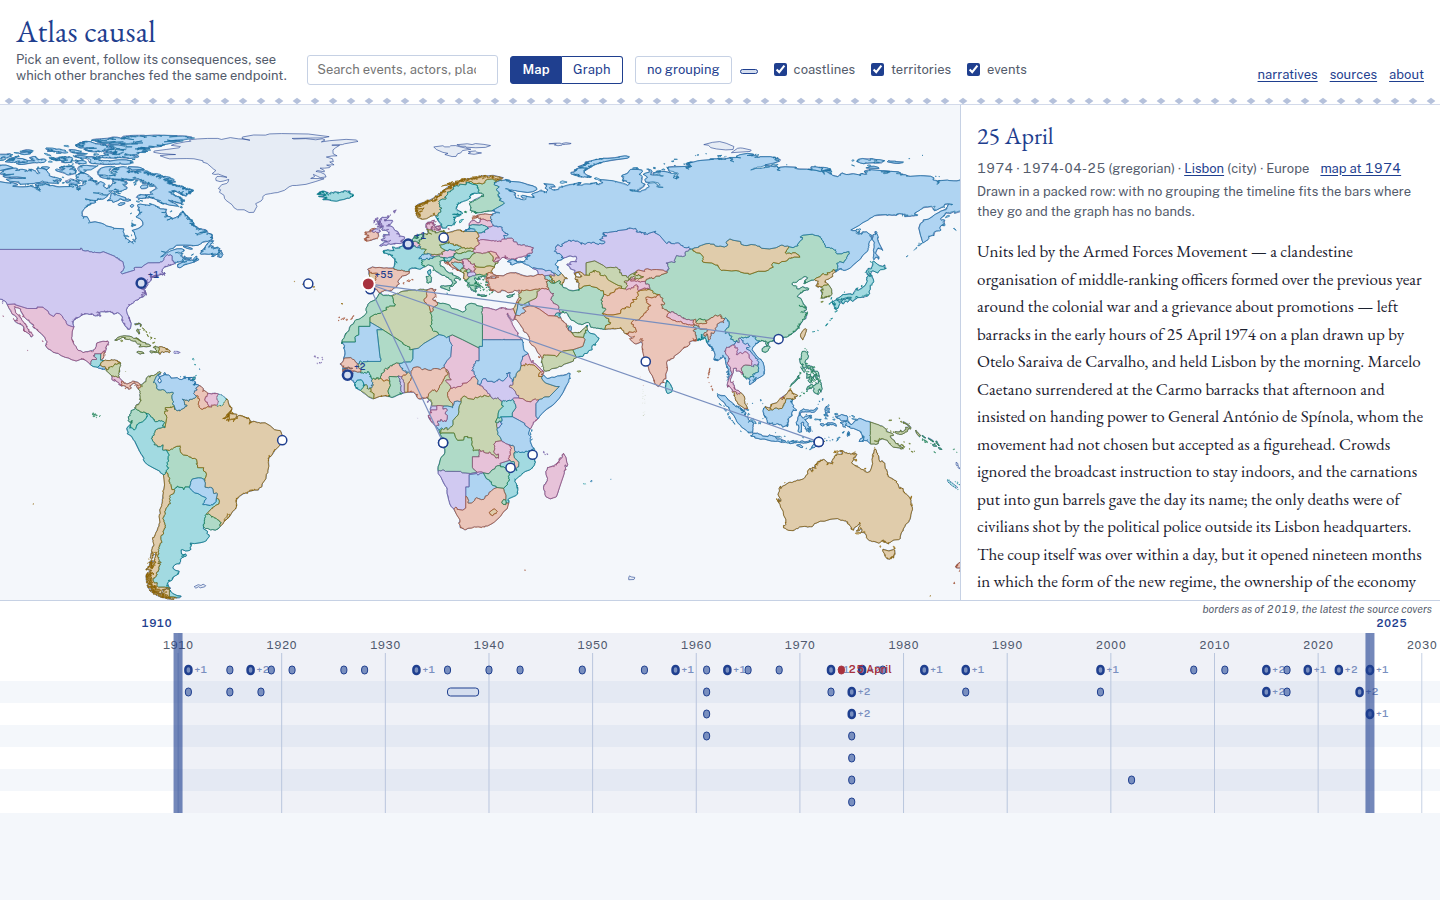
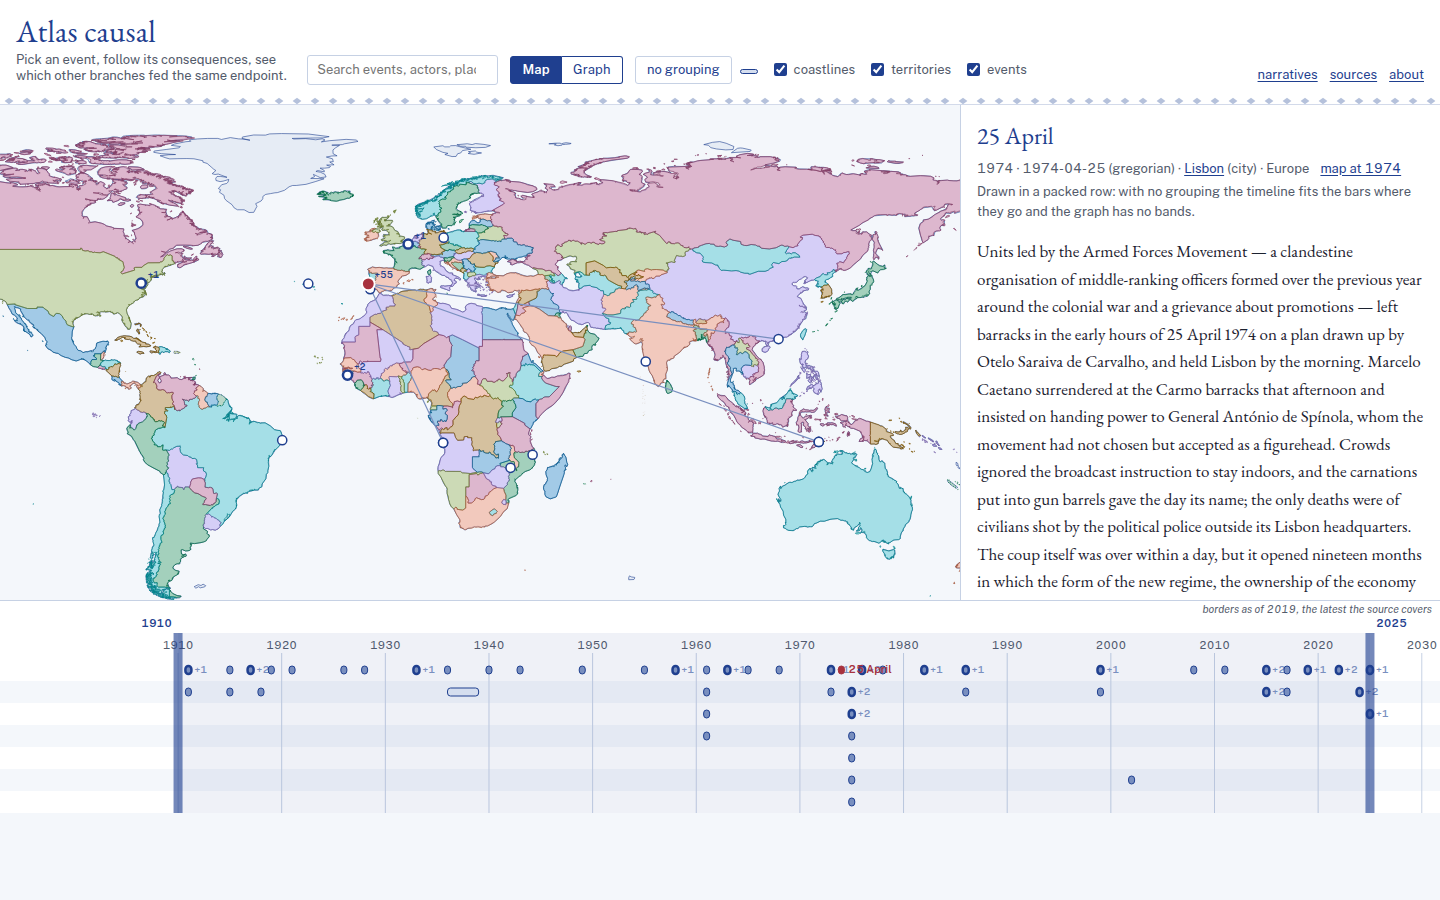
fix(map): alternate the lightness of the eight hues
At one lightness the two closest washes were 0.036 apart in OKLab, which
is over the threshold for a large flat field and under it for a country:
Portugal and Spain share the longest border on this map and read as one
colour at the size Portugal is drawn. Lightness now alternates around the
circle, 0.825 and 0.745, which doubles the smallest separation to 0.060
without leaving the family, and the tokens are ordered so that the step
from each to the next is as large as it can be — the colouring hands out
the least-used hue, so neighbours in the list are often neighbours on the
map. The tests hold the new numbers so they cannot be given back.

Also: a cluster is filled with paper rather than a tint of cobalt, which
no wash can be confused with; a window one year wide draws one year label
rather than "1911 1911"; and an actor names itself in its own territory
table rather than leaving the first column blank.

Claude-Session: https://claude.ai/code/session_015cuJpMinq3Q4hzFGbXT6Vz

Changed region(s): [[0.2188, 0.1556, 0.6875, 0.6222], [0.0, 0.1244, 0.2188, 0.6844], [0.2188, 0.1867, 0.25, 0.2178]]

diff --git a/src/style.css b/src/style.css
@@ -70,31 +70,47 @@
      "not the same as the one next to it", never "this kind of state": there
      is no legend by colour and about.html says why.
 
-     Chosen in OKLCH rather than by eye, so the family holds together: every
-     fill is L 0.80 C 0.085, every dependency tint L 0.87 C 0.062, every
-     outline L 0.52 C 0.11, and only the hue angle moves — 40°, 80°, 122°,
-     160°, 202°, 241°, 296°, 347°. The angles are not evenly spaced: they were
-     spread to maximise the smallest difference between any two, once each
-     fill is composited at the opacity it is actually drawn with over the land
-     token, and they stay 22° clear of cobalt (264°) and madder (19°), which
-     are the two colours the map must never confuse a territory with.
+     Chosen in OKLCH rather than by eye, so the family holds together and the
+     difference between any two is a measured quantity rather than an
+     opinion. Eight hue angles — 40°, 80°, 122°, 160°, 202°, 241°, 296°,
+     347° — spread to maximise the smallest difference between any two once
+     each fill is composited at the opacity it is actually drawn with over
+     the land token, and kept 22° clear of cobalt (264°) and madder (19°),
+     which are the two colours the map must never confuse a territory with.
+     Chroma is one number for all eight (0.088 for a fill, 0.055 for a
+     dependency tint, 0.105 for an outline), and lightness ALTERNATES around
+     the circle — 0.825 and 0.745 — because two neighbouring hues at one
+     lightness are two pale washes a small country cannot carry the
+     difference between. Alternating it doubles the smallest separation
+     without leaving the family: Portugal and Spain share the longest border
+     on this map, and at one lightness they were 0.036 apart and read as one
+     colour at the size Portugal is drawn.
 
-     What that buys, in OKLab distance between the drawn washes: 0.036 between
-     the two closest fills and 0.026 between the two closest tints, both above
-     the ~0.02 at which a large field stops being tellable from its neighbour;
-     0.47 from cobalt and 0.37 from madder, so the selected actor and the
-     walked chain still own the loudest marks on the screen; 0.10 from the
-     land token, so a territory is visible on empty ground. The outlines are
-     dark enough to carry a border on their own: 5.07:1 against paper at
-     worst, above AA for text and well above the 3:1 non-text minimum. */
-  --terr-1: #eeac94;  --terr-1-tint: #f9c7b6;  --terr-1-line: #9d5035;
-  --terr-2: #dbb87e;  --terr-2-tint: #ead0a7;  --terr-2-line: #8a6000;
-  --terr-3: #b4c789;  --terr-3-tint: #cddbae;  --terr-3-line: #5e721f;
-  --terr-4: #8dcfab;  --terr-4-tint: #b2e1c6;  --terr-4-line: #177c52;
-  --terr-5: #77ced5;  --terr-5-tint: #a4e1e6;  --terr-5-line: #007b84;
-  --terr-6: #8cc5f0;  --terr-6-tint: #b1dafa;  --terr-6-line: #1b70a2;
-  --terr-7: #c2b3ef;  --terr-7-tint: #d7cdf9;  --terr-7-line: #6f5aa1;
-  --terr-8: #e7a8c8;  --terr-8-tint: #f4c4dc;  --terr-8-line: #954c75;
+     What that buys, in OKLab distance between the washes as drawn: 0.060
+     between the two closest fills and 0.049 between the two closest tints,
+     against the ~0.02 at which a large flat field stops being tellable from
+     its neighbour; 0.43 from cobalt and 0.34 from madder, so the selected
+     actor and the walked chain still own the loudest marks on the screen;
+     0.087 from the land token, so a territory is visible on empty ground.
+     A mark keeps 5.4:1 over the worst wash, its label 8.9:1 and the walked
+     chain 3.7:1; the outlines are dark enough to be borders on their own, at
+     4.6:1 against paper at worst. tests/palette.test.mjs and
+     tests/contrast.test.mjs check all of it and fail when a token slips.
+
+     The tokens are not listed in order round the circle. The colouring hands
+     out the least-used hue among those free, so it works through them
+     roughly in order and two territories next to each other in this list are
+     often next to each other on the map; the order below is the one whose
+     smallest step from each token to the next is largest — 0.107, nearly
+     twice the worst pair anywhere in the palette. */
+  --terr-1: #f8b39b;  --terr-1-tint: #fed1c1;  --terr-1-line: #a3593f;
+  --terr-2: #7cd7de;  --terr-2-tint: #b2e8ec;  --terr-2-line: #00818a;
+  --terr-3: #caa66b;  --terr-3-tint: #d5bf9b;  --terr-3-line: #785100;
+  --terr-4: #cabbf9;  --terr-4-tint: #dfd6fe;  --terr-4-line: #7662a6;
+  --terr-5: #79be99;  --terr-5-tint: #a4ceb6;  --terr-5-line: #016b44;
+  --terr-6: #d696b7;  --terr-6-tint: #deb5c9;  --terr-6-line: #823e65;
+  --terr-7: #bccf8f;  --terr-7-tint: #d6e3bb;  --terr-7-line: #66792d;
+  --terr-8: #78b4df;  --terr-8-tint: #a3c8e3;  --terr-8-line: #095f8e;
 
   --font: "EB Garamond", Georgia, "Times New Roman", serif;
   --font-ui: "Public Sans", system-ui, -apple-system, "Segoe UI", sans-serif;
@@ -417,6 +433,9 @@ button.bar-link { background: none; border: 0; padding: 0; font: inherit; font-s
 .map .presence.dependency.of-actor { stroke-dasharray: 1 2; }
 .map .presence.of-actor.disputed { stroke-dasharray: 4 3; }
 
+/* A mark is white with a cobalt ring wherever it lands, which is what keeps
+   it above eight coloured washes without competing with the two colours that
+   carry emphasis. */
 .map .mark { fill: var(--paper); stroke: var(--cobalt); stroke-width: 1.5; vector-effect: non-scaling-stroke; cursor: pointer; }
 .map .mark:hover { fill: var(--cobalt-faint); }
 /* The events of the selected actor. Cobalt and heavier, never madder:
@@ -432,9 +451,12 @@ button.bar-link { background: none; border: 0; padding: 0; font: inherit; font-s
    close still lands on it. */
 .map .hit { fill: transparent; stroke: none; cursor: pointer; }
 /* A stack of marks drawn as one. Heavier ring and a count beside it: the
-   reader has to be able to tell a cluster from a single event. */
-.map .mark.cluster { fill: var(--cobalt-faint); stroke: var(--cobalt); stroke-width: 2.5; }
-.map .mark.cluster:hover { fill: var(--cobalt-soft); }
+   reader has to be able to tell a cluster from a single event. Filled with
+   paper and not with a tint of cobalt, since the hues arrived: a pale blue
+   disc over a pale blue territory is a disc that disappears, and white is the
+   one fill none of the eight washes can be confused with. */
+.map .mark.cluster { fill: var(--paper); stroke: var(--cobalt); stroke-width: 2.5; }
+.map .mark.cluster:hover { fill: var(--cobalt-faint); }
 .map .cluster-count { fill: var(--cobalt); font-family: var(--font-ui); font-weight: 600; pointer-events: none; }
 .map .mark-label { fill: var(--ink); font-family: var(--font-ui); paint-order: stroke; stroke: var(--paper); stroke-width: 3; pointer-events: none; }
 /* A coincident cluster opened: members on rings, each on a leg back to the

diff --git a/src/timeline.js b/src/timeline.js
@@ -407,6 +407,10 @@ export function createTimeline(container, { atlas, state, createScale = createLi
   function bandHandles({ from, to }, s) {
     const out = [];
     const ends = [['from', from], ['to', to]];
+    // A window one year wide has both handles on the same pixel, and two
+    // labels either side of it read as "1911 1911" — a range, which is what
+    // the reader has just narrowed away from. One label, centred, instead.
+    const single = from === to;
     for (const [kind, year] of ends) {
       const x = scale.x(year);
       const handle = svg('rect', {
@@ -419,9 +423,10 @@ export function createTimeline(container, { atlas, state, createScale = createLi
         'aria-valuetext': formatYear(fromAstronomical(year)),
       }, [svgTitle(`${kind === 'from' ? 'Start' : 'End'} of the window — ${formatYear(fromAstronomical(year))}`)]);
       out.push(handle);
+      if (single && kind === 'from') continue;
       const label = svg('text', {
-        x: kind === 'from' ? x - 6 : x + 6, y: MARKER_HEIGHT - 6,
-        class: 'window-year', 'text-anchor': kind === 'from' ? 'end' : 'start',
+        x: single ? x : kind === 'from' ? x - 6 : x + 6, y: MARKER_HEIGHT - 6,
+        class: 'window-year', 'text-anchor': single ? 'middle' : kind === 'from' ? 'end' : 'start',
       });
       label.textContent = formatYear(fromAstronomical(year));
       out.push(label);
